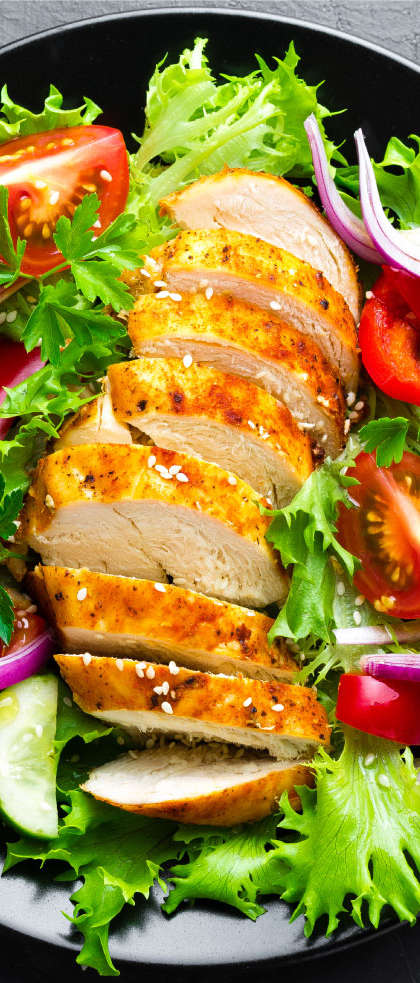
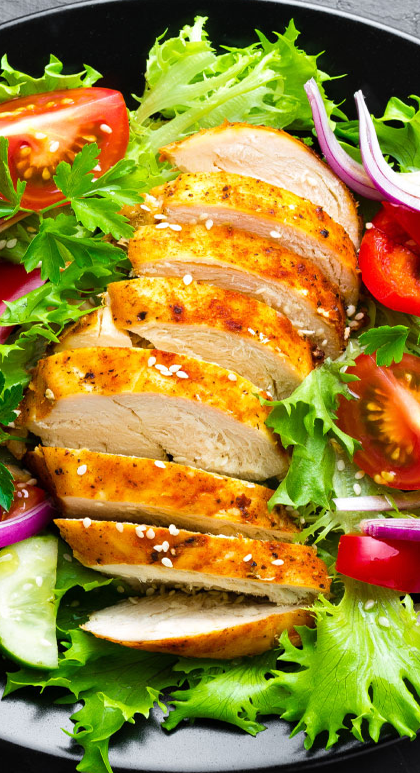
updated

diff --git a/nutrition.css b/nutrition.css
@@ -628,12 +628,12 @@ body{
 }
 
 .about-us-image-1{
-    width: 200px;
+    width: 180px;
     height: 350px;
 }
 .about-us-image-2{
-    width: 200px;
-    height: 360px;
+    width: 180px;
+    height: 350px;
 }
 
 /*
@@ -838,13 +838,13 @@ input {
     }
 
     .about-us-image-1{
-        width: 180px;
+        width: 160px;
         height: 300px;  
 
     }
 
     .about-us-image-2{
-        width: 180px;
+        width: 160px;
         height: 300px;  
     }
 
@@ -992,8 +992,8 @@ form {
     .about-us-image-container{
         flex-direction: row;
         width: 99%;
-        height: 20%;
-        margin-top: 0;
+        height: 30%;
+        margin-top: -100px;
     }
 
     .about-us-image-1{
@@ -1008,7 +1008,7 @@ form {
     }
 
     .tabs{
-        margin-top: 40px;
+        margin-top: -40px;
         width: 99%;
         height: 60%;
     } 
@@ -1027,7 +1027,7 @@ form {
     .about-us-container-2{
         height: 30%;
         width: 100%;
-        margin-top: 20px;
+        margin-top: -20px;
         
     }
 

diff --git a/index.html b/index.html
@@ -220,7 +220,7 @@
         <div class="about-us-container-1">
             <div class="about-us-image-container">
                 <img class="about-us-image-1" src="breakfast.jpg" alt="">
-                <img class="about-us-image-2" src="dish-png.png" alt="">
+                <img class="about-us-image-2" src="dish.png" alt="">
             </div>
             <div class="tabs">
                 <div class="tabset">
